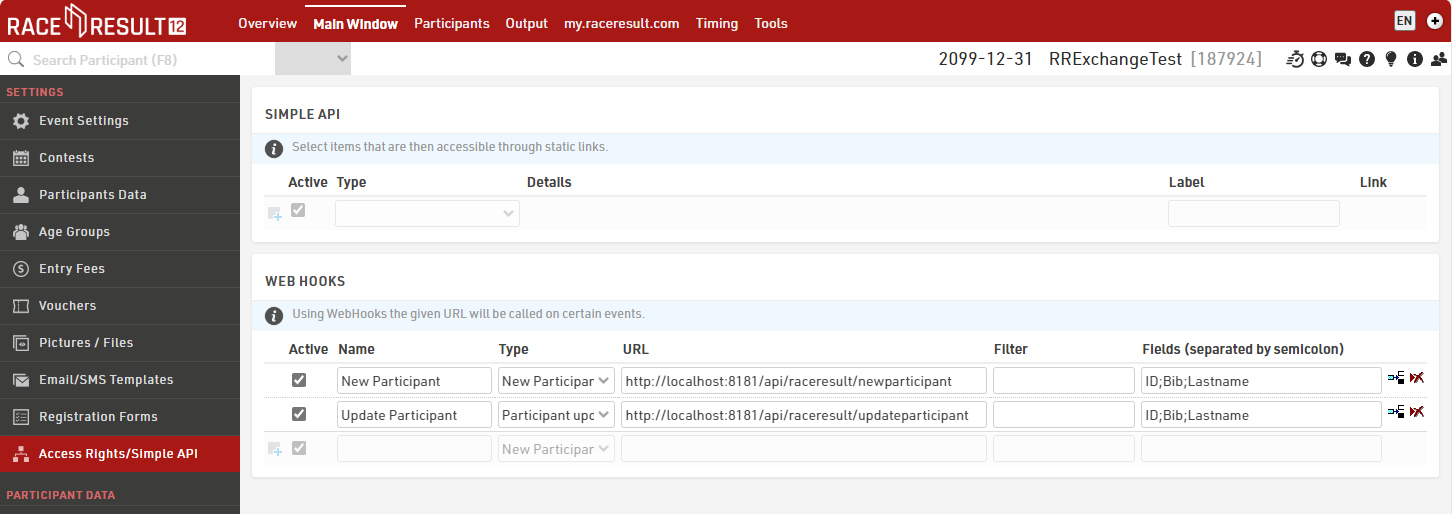
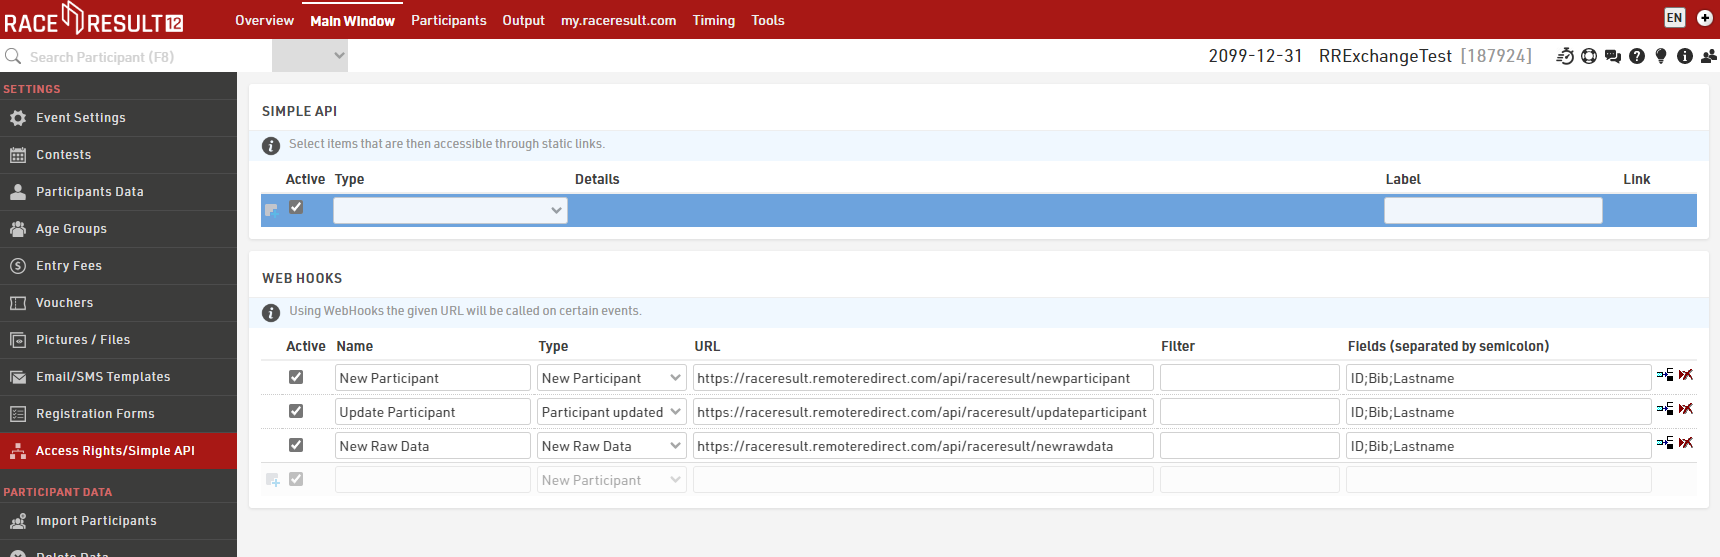
GITBOOK-17: No subject

diff --git a/release-notes.md b/release-notes.md
@@ -1,5 +1,18 @@
 # Release Notes
 
+#### 1.0.107 (2024-04-29)
+
+*   Tome Trial mode in displays can be configured witha timeout, so athletes that do not make it to the finish from announcement are removed\
+
+
+    <figure><img src=".gitbook/assets/image.png" alt="" width="245"><figcaption></figcaption></figure>
+* Trigger Functionality: RRExchange can react on ceertain triggers and run some actions. This is possible via the use of web hooks.
+  * Currently creation of a new participant is supported as trigger
+  * Currently printing a certificateis supported as action
+* Our [RemoteRedirect ](https://www.remoteredirect.com)service now also acts a liason between RR12 online and RRExchange locally. This way even exportes and webhooks are woking when remaining in online mode.&#x20;
+
+####
+
 #### 1.0.106 (2024-03-04)
 
 *   When having multiple displayboards configured, individual displayboards can be moved up and down by using right click context menu:\

diff --git a/readme/configuration/webhooks.md b/readme/configuration/webhooks.md
@@ -32,4 +32,4 @@ The following web hooks need to be configured in RR12 (Main Window - Access Righ
 
 <table><thead><tr><th width="138">Type</th><th>URL</th><th width="96">Filter</th><th>Fields</th></tr></thead><tbody><tr><td>New Participant</td><td><code>http://localhost:8181/api/raceresult/newparticipant</code></td><td></td><td><code>ID;Bib;Lastname</code></td></tr><tr><td>Participant updated</td><td><code>http://localhost:8181/api/raceresult/updateparticipant</code></td><td></td><td><code>ID;Bib;Lastname</code></td></tr></tbody></table>
 
-<figure><img src="../../.gitbook/assets/image (1).png" alt="" width="375"><figcaption><p>RR12 Configuration when working offline</p></figcaption></figure>
+<figure><img src="../../.gitbook/assets/image (1) (1).png" alt="" width="375"><figcaption><p>RR12 Configuration when working offline</p></figcaption></figure>

diff --git a/scripting/globals.md b/scripting/globals.md
@@ -20,4 +20,4 @@ E.g. when you have a list define with name Test you can access the rows by using
 
 E.g. a column named Starttime can be access for the first row by using `Test.First.Starttime`.
 
-<figure><img src="../.gitbook/assets/image (1) (1).png" alt="" width="375"><figcaption></figcaption></figure>
+<figure><img src="../.gitbook/assets/image (1) (1) (1).png" alt="" width="375"><figcaption></figcaption></figure>
